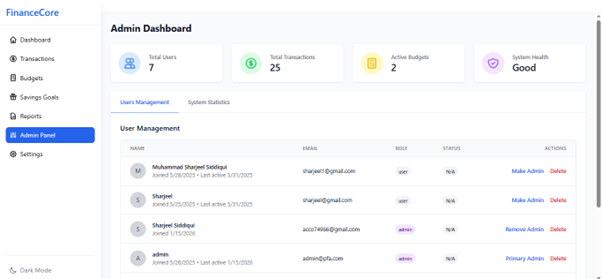
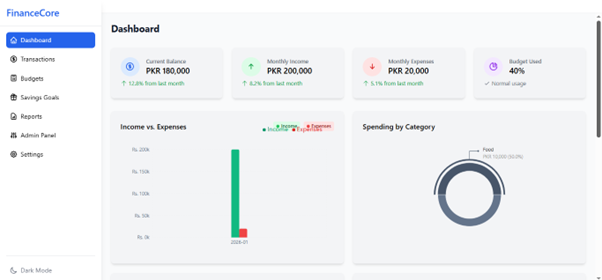
Update screenshots in README and adjust section titles for clarity

diff --git a/readme.md b/readme.md
@@ -2,7 +2,7 @@
 
 A comprehensive full-stack personal finance management application built with React, Node.js, Express, and Oracle Database. This application helps users track their income, expenses, budgets, savings goals, and generate detailed financial reports.
 
-![Dashboard](Screenshots/1.png)
+![Dashboard](Screenshots/15.png)
 
 ## 📋 Table of Contents
 
@@ -668,59 +668,45 @@ Protected routes ensure authenticated access:
 
 ### 1. Login Page
 ![Login Page](Screenshots/1.png)
-*Secure login interface with email and password authentication*
 
-### 2. Registration Page
+### 2. Profile Tab
 ![Registration Page](Screenshots/2.png)
-*User registration form with validation*
 
-### 3. Dashboard Overview
+### 3. Categories Tab
 ![Dashboard](Screenshots/3.png)
-*Main dashboard showing financial summary, charts, and recent activity*
 
-### 4. Dashboard Graphs
+### 4. Transaction Page
 ![Dashboard Graphs](Screenshots/4.png)
-*Visual representation of income vs expenses and spending patterns*
 
-### 5. Transactions Page
+### 5. Add Transactions Page
 ![Transactions](Screenshots/5.png)
-*Comprehensive transaction management interface with filtering*
 
 ### 6. Add Transaction
 ![Add Transaction](Screenshots/7.png)
-*Transaction creation form with category selection*
 
 ### 7. Budgets Page
 ![Budgets](Screenshots/8.png)
-*Budget planning and monitoring interface*
 
-### 8. Budget Details
+### 8. Add Budget Details
 ![Budget Details](Screenshots/9.png)
-*Detailed budget view with actual vs planned spending*
 
 ### 9. Savings Goals
-![Savings Goals](Screenshots/10.png)
-*Goal tracking interface with progress indicators*
+![Savings Goals](Screenshots/10.png) 
 
-### 10. Reports Page
+### 10. Create Goal
 ![Reports](Screenshots/11.png)
-*Financial reports with date range selection*
 
-### 11. Report Details
+### 11. Saving Goals Detail
 ![Report Details](Screenshots/12.png)
-*Detailed financial report with export options*
 
-### 12. Settings Page
+### 12. Reports Page
 ![Settings](Screenshots/13.png)
-*User profile and preferences management*
 
 ### 13. Admin Panel
 ![Admin Panel](Screenshots/14.png)
-*Admin interface for user management*
 
-### 14. Admin User Management
+### 14. Dashboard
 ![User Management](Screenshots/15.png)
-*Admin tools for managing users and viewing audit logs*
 
 ## 📖 Usage Guide
 
